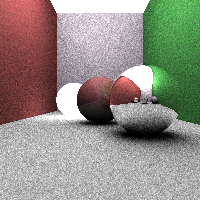
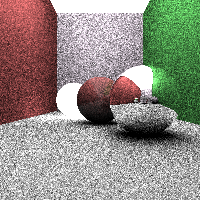
made scene.cs work with emission again.

diff --git a/src/scene/Scene.cs b/src/scene/Scene.cs
@@ -18,8 +18,8 @@ namespace RayTracer
 
         private const double FOV = 60.0f;
         private const int MAX_DEPTH = 4;
-        private const int SHADE_SAMPLES = 50;
-        private const int NUM_DOF_RAYS = 150;
+        private const int SHADE_SAMPLES = 10;
+        private const int NUM_DOF_RAYS = 50;
 
         private SceneOptions options;
         private ISet<SceneEntity> entities;
@@ -73,7 +73,7 @@ namespace RayTracer
 
             for (int i = 0; i < outputImage.Width; i++)
             {
-                // if (DEBUG) Console.WriteLine("Scanlines remaining: " + (outputImage.Width - i));
+                if (DEBUG) Console.WriteLine("Scanlines remaining: " + (outputImage.Width - i));
                 for (int j = 0; j < outputImage.Height; j++)
                 {
                     cam.Pind = new PixelIndex(i, j);
@@ -144,7 +144,7 @@ namespace RayTracer
             if (sourceRh.Material.Type == Material.MaterialType.Glossy)
             {
                 Color diffColor = Color.Black(), specColor = Color.Black();
-                double n = 30.0f; // Where this is the exponent of a specular refleciton.
+                double n = 7.0f; // Where this is the exponent of a specular refleciton.
                 double Kd = 0.8f; // phong model diffuse weight
                 double Ks = 0.3f; // phong model specular weight
 
@@ -164,12 +164,32 @@ namespace RayTracer
                     specColor += pl.Color * Math.Pow(Math.Max(0.0f, reflection.Dot(-shadowRh.Incident)), n);
                 }
 
+                foreach (SceneEntity e in entities)
+                {
+                    if (!(e.Material.Type == Material.MaterialType.Emissive)) continue;
+                    for (int i = 0; i < SHADE_SAMPLES; i++)
+                    {
+                        Vector3 lightDir = Mat3.RandomRotate(e.ShadowRayAngle(sourceRh), (e.GetCenter() - sourceRh.Position).Normalized());
+                        Ray shadowRay = new Ray(sourceRh.Position, lightDir).Offset();
+                        RayHit shadowRh = ClosestHit(shadowRay);
+
+                        if (shadowRh == null) continue;
+                        if (shadowRh != null && shadowRh.Material.Type != Material.MaterialType.Emissive) continue;
+
+                        // Diffuse component.
+                        diffColor += (sourceRh.Normal.Normalized().Dot(lightDir) * sourceRh.Material.Color * e.Material.Color) / SHADE_SAMPLES;
+
+                        // Spec component.
+                        Vector3 reflection = shadowRh.Reflect();
+                        specColor += e.Material.Color * Math.Pow(Math.Max(0.0f, reflection.Dot(-shadowRh.Incident)), n) / SHADE_SAMPLES;
+                    }
+                }
+
                 glossyColor = (diffColor * Kd + specColor * Ks) * 0.85f + RayColor(new Ray(sourceRh.Position, sourceRh.RandomishReflect()).Offset(), depth - 1) * 0.15f;
             }
 
             if (sourceRh.Material.Type == Material.MaterialType.Diffuse)
             {
-                if (cam.PixelIndexDebug(170, 170)) Debugger.Break();
                 foreach (PointLight pl in lights)
                 {
                     // Ray to point light hit.
@@ -177,11 +197,28 @@ namespace RayTracer
                     Ray shadowRay = new Ray(sourceRh.Position, lightDir).Offset();
                     RayHit shadowRh = ClosestHit(shadowRay);
 
-                    //if (shadowRh == null) continue;
+                    if (shadowRh == null) continue;
                     // If the current ray (r) is NOT in shadow (ray from intersection to light is blocked by entity).
                     if (shadowRh != null && shadowRay.Origin.LengthWith(shadowRh.Position) < shadowRay.Origin.LengthWith(pl.Position)) continue;
 
                     diffuseColor += sourceRh.Normal.Normalized().Dot(lightDir) * sourceRh.Material.Color * pl.Color;
+                }
+
+                foreach (SceneEntity e in entities)
+                {
+                    if (!(e.Material.Type == Material.MaterialType.Emissive)) continue;
+
+                    for (int i = 0; i < SHADE_SAMPLES; i++)
+                    {
+                        Vector3 lightDir = Mat3.RandomRotate(e.ShadowRayAngle(sourceRh), (e.GetCenter() - sourceRh.Position).Normalized());
+
+                        Ray shadowRay = new Ray(sourceRh.Position, lightDir.Normalized()).Offset();
+                        RayHit shadowRh = ClosestHit(shadowRay);
+
+                        // If the current ray (r) is NOT in shadow (ray from intersection to light is blocked by entity).
+                        if (shadowRh != null && shadowRh.Material.Type != Material.MaterialType.Emissive) continue;
+                        diffuseColor += (sourceRh.Normal.Normalized().Dot(lightDir) * sourceRh.Material.Color * e.Material.Color) / SHADE_SAMPLES;
+                    }
                 }
             }
 
